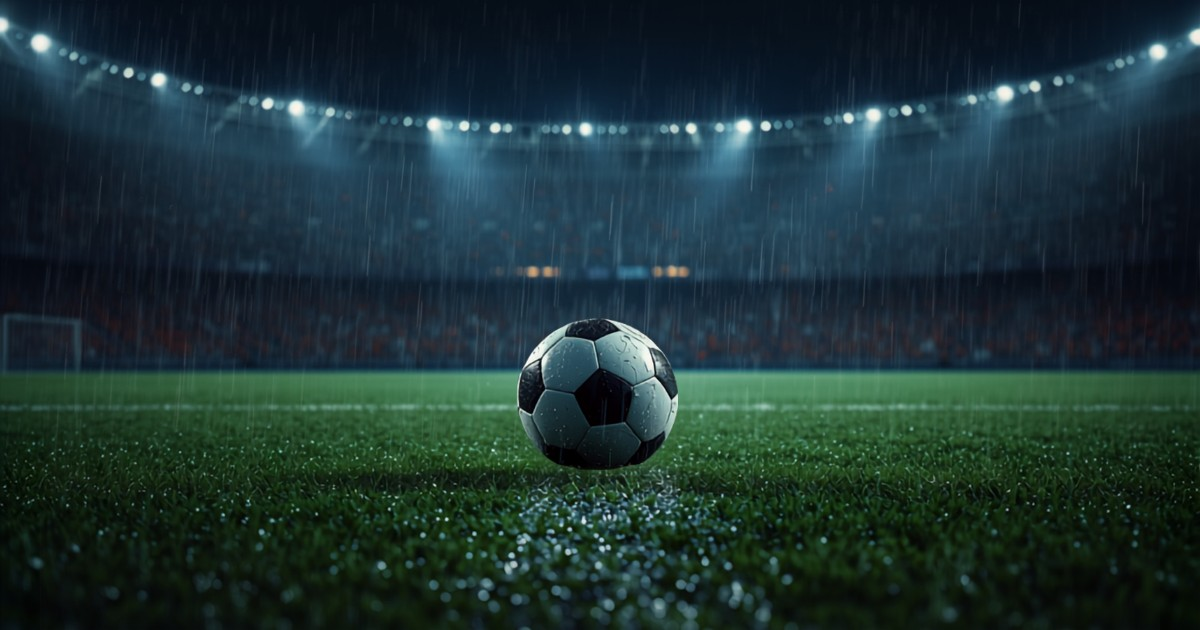
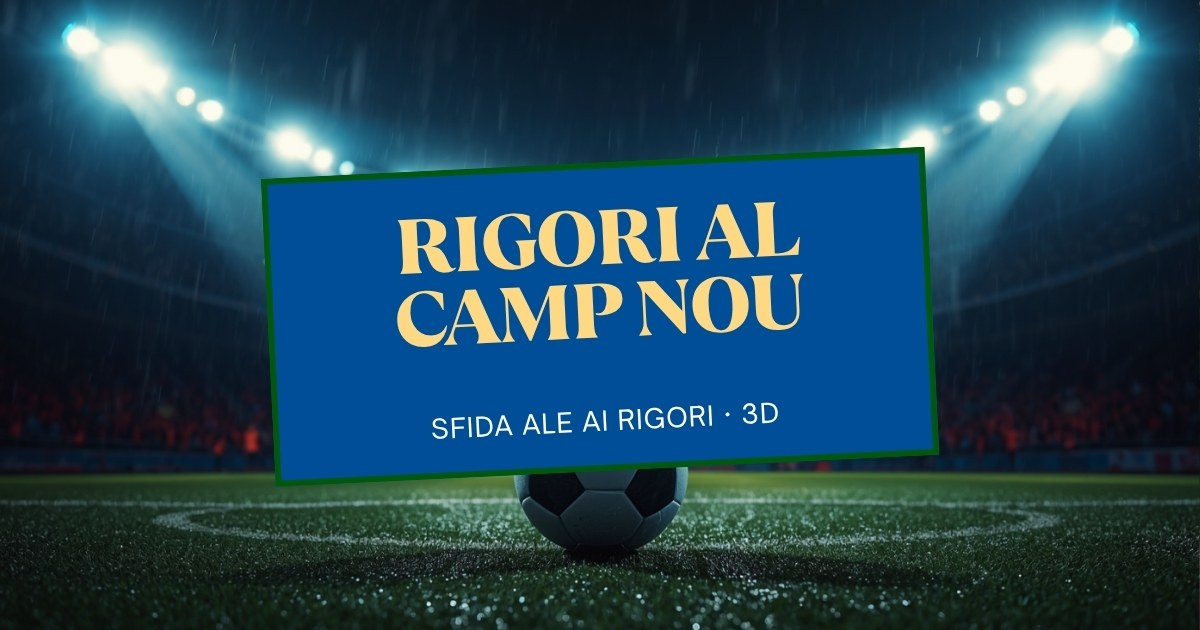
Rigori: anteprima link (og:image) che APPARE su WhatsApp/LinkedIn
Problema: condividendo il link del gioco non usciva nessuna immagine di
anteprima. Tre cause risolte:
1) <meta name="robots" content="noindex,nofollow"> sulla pagina: LinkedIn
   RIFIUTA di generare l'anteprima per pagine noindex -> rimosso dalla sola
   pagina del gioco (il resto del sito resta com'e').
2) Card poco riconoscibile e meta incompleti: aggiunti og:url, og:site_name,
   og:image:secure_url/type/alt, twitter:title/description.
3) Nuova card og-rigori.jpg generata con Canva Pro (1200x630, 129KB, sotto i
   limiti WhatsApp): stadio notturno sotto la pioggia con pallone sul
   dischetto e TITOLO in evidenza ("RIGORI AL CAMP NOU" oro su pannello
   blaugrana + sottotitolo "Sfida Ale ai rigori - 3D"), leggibile anche
   nella miniatura piccola di WhatsApp. Cache-bust v3 -> v4.

Nota: WhatsApp tiene in cache l'anteprima per URL anche per giorni; per
vederla subito basta condividere il link con un suffisso (es. ?n=1).

Claude-Session: https://claude.ai/code/session_01NeD6nztxTVts9Duv3Zv7os

diff --git a/rigori.html b/rigori.html
@@ -4,16 +4,23 @@
 <meta charset="UTF-8">
 <meta name="viewport" content="width=device-width,initial-scale=1,viewport-fit=cover,user-scalable=no">
 <meta name="theme-color" content="#001F44">
-<meta name="robots" content="noindex,nofollow">
+<!-- niente noindex QUI: LinkedIn rifiuta l'anteprima link sulle pagine noindex -->
 <title>RIGORI AL CAMP NOU · 3D</title>
 <meta property="og:type" content="website">
+<meta property="og:site_name" content="Barcellona 40">
+<meta property="og:url" content="https://alessandrovizzini1986-a11y.github.io/barcellona-40/rigori.html">
 <meta property="og:title" content="⚽ RIGORI AL CAMP NOU · 3D">
 <meta property="og:description" content="Penalty 3D al Camp Nou: Mario e Giulio tirano, Ale 👑🧤 para. Trascina, curva e segna — un errore e sei a casa.">
 <meta name="description" content="Penalty 3D al Camp Nou: Mario e Giulio tirano, Ale para. Trascina per mirare, dai effetto e segna.">
-<meta property="og:image" content="https://alessandrovizzini1986-a11y.github.io/barcellona-40/og-rigori.jpg?v=3">
+<meta property="og:image" content="https://alessandrovizzini1986-a11y.github.io/barcellona-40/og-rigori.jpg?v=4">
+<meta property="og:image:secure_url" content="https://alessandrovizzini1986-a11y.github.io/barcellona-40/og-rigori.jpg?v=4">
+<meta property="og:image:type" content="image/jpeg">
 <meta property="og:image:width" content="1200"><meta property="og:image:height" content="630">
+<meta property="og:image:alt" content="RIGORI AL CAMP NOU — gioco di rigori 3D">
 <meta name="twitter:card" content="summary_large_image">
-<meta name="twitter:image" content="https://alessandrovizzini1986-a11y.github.io/barcellona-40/og-rigori.jpg?v=3">
+<meta name="twitter:title" content="⚽ RIGORI AL CAMP NOU · 3D">
+<meta name="twitter:description" content="Penalty 3D al Camp Nou: sfida Ale ai rigori. Trascina, curva e segna!">
+<meta name="twitter:image" content="https://alessandrovizzini1986-a11y.github.io/barcellona-40/og-rigori.jpg?v=4">
 <link rel="preconnect" href="https://fonts.googleapis.com"><link rel="preconnect" href="https://fonts.gstatic.com" crossorigin>
 <link href="https://fonts.googleapis.com/css2?family=Press+Start+2P&family=Archivo:wght@600;800&display=swap" rel="stylesheet">
 <style>